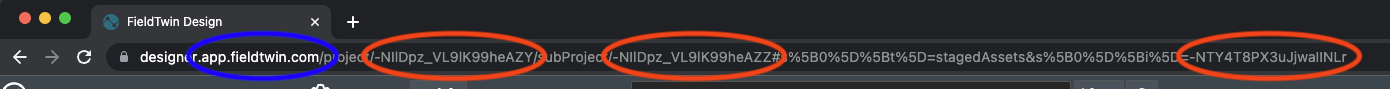
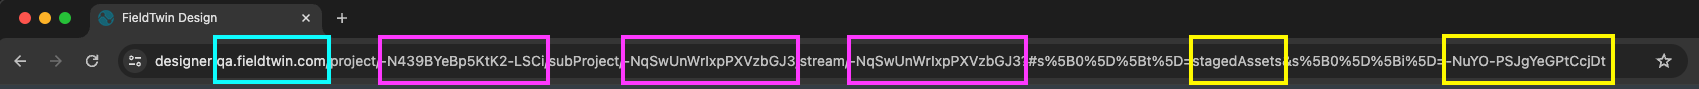
docs: remove old smart model info, add how to connect to smart model sockets

diff --git a/HOWTO.md b/HOWTO.md
@@ -21,8 +21,8 @@ project lives in. API tokens are convenient for testing but they are unrestricte
 so once you are familiar with the API you might (depending on your use case) choose to
 [use a JWT instead](#provide-a-jwt-instead-of-an-api-token).
 
-The IDs of the project and subproject (and objects below) can be found from the
-URL in your browser's address bar when the project is open in FieldTwin Design.
+The IDs of the project, subproject and stream (and objects below) can be found from
+the URL in your browser's address bar when the project is open in FieldTwin Design.
 They look like this: `-MeidQjcOmxpYWFIq5zp`.
 
 ![Hostname and IDs in the address bar](./docs/images/address-bar.png)
@@ -317,7 +317,7 @@ curl -H "token: ${TOKEN}" \
                          "value": []
                     }
                 ]
-            }' \
+             }' \
      https://${BACKEND_HOST}/API/v1.9/${PROJECT}/subProject/${SUBPROJECT}:${STREAM}/connection/${CONNECTION}
 ```
 
@@ -794,148 +794,18 @@ To use smart models, ask FutureOn to deploy the required smart assets and associ
 metadata definitions into your Asset Library.
 
 When a staged asset is created from a smart model in FieldTwin, its "docking slots" will
-be made available as metadata values with `"type": "asset"`:
+be made available as metadata values with `"type": "asset"`.
 
-### Legacy wind turbine smart models (2023 - 2024)
+### Wind turbine smart models (2024 onwards)
 
-Using the legacy Wind assets, the workflow for creation is:
-
-1. Create a wind turbine staged asset
-2. Set one of its available metadata values for _foundation x_ to the allowed foundation asset
-
-```
-export STAGEDASSET=<staged asset id>
-
-curl -H "token: ${TOKEN}" \
-     https://${BACKEND_HOST}/API/v1.9/${PROJECT}/subProject/${SUBPROJECT}:${STREAM}/stagedAsset/${STAGEDASSET}
--->
-{
-     "name": "5MW Wind Turbine #1",
-     "visible": true,
-     "virtual": false,
-     ...
-     "metaData": [{
-          "id": "-N5o5X-wuAK1D25k249p",
-          "metaDatumId": "-N5o5X-wuAK1D25k249e",
-          "metaDatumLinkId": "-N5o5X-wuAK1D25k249p",
-          "definitionId": "WindPOC:5MWMonoPile[asset]",
-          "name": "5MW MonoPile",
-          "type": "asset",
-          "tags": [],
-          "cost": 0,
-          "costPerLength": false,
-          "subValue": []
-     },
-     ...
-     ]
-}
-```
-
-Fetching the newly created wind turbine above, there is no `value` attribute in the `metaData` object.
-The docking slot for `5MW MonoPile` is empty. To add a monopile component to the parent staged asset,
-set the `value` to the ID of an allowable asset from the asset library (note: use the ID of an asset
-definition, not a staged asset):
-
-```
-curl -H "token: ${TOKEN}" \
-     -H "content-type: application/json" \
-     --request PATCH \
-     --data '{
-                "metaData": [{
-                    "metaDatumId": "-N5o5X-wuAK1D25k249e",
-                    "value": "-N4Rz5E2U88Qoq02TLF2"
-                }]
-            }' \
-     https://${BACKEND_HOST}/API/v1.9/${PROJECT}/subProject/${SUBPROJECT}:${STREAM}/stagedAsset/${STAGEDASSET}
-```
-
-To find the allowable asset IDs for a docking slot, first request the metadata definition
-using the metadata definition ID in `metaDatumId`:
-
-```
-curl -H "token: ${TOKEN}" \
-     https://${BACKEND_HOST}/API/v1.9/metadatadefinitions/-N5o5X-wuAK1D25k249e
--->
-{
-     "name": "5MW MonoPile",
-     "definitionId": "WindPOC:5MWMonoPile[asset]",
-     "vendorAttributes": {},
-     "shouldFilterChoices": false,
-     "options": {
-          "unit": {},
-          "filter": {
-               "assetSubCategories": ["5MW WT MP F"],
-               "assetCategories": ["Wind"],
-               "assetTypes": ["vessel"],
-               "assetSubTypes": ["WindTurbine"]
-          }
-     },
-     "cost": 0,
-     "costPerLength": false,
-     "order": 280000,
-     "public": false,
-     "tags": [],
-     "clonedFroms": [],
-     "hideInInfoPanel": false,
-     "global": false,
-     "id": "-N5o5X-wuAK1D25k249e",
-     "displayIfConditions": [],
-     "type": "asset",
-     "account": "-MY45O6R7qkBUXnN1uTb"
-}
-```
-
-Then use the filters given in `options.filter` to find asset definitions in the asset
-library that match the filters:
-
-```
-curl -H "token: ${TOKEN}" \
-     https://${BACKEND_HOST}/API/v1.9/assets
--->
-{
-     ...
-     "-N4Rz5E2U88Qoq02TLF2": {
-          "name": "5MW MonoPile",
-          "description": "",
-          "category": "Wind",                          // match on filter.assetCategories
-          "subCategory": "5MW WT MP F",                // match on filter.assetSubCategories
-          "type": "vessel",                            // match on filter.assetTypes
-          "subType": "WindTurbine",                    // match on filter.assetSubTypes
-          "imageUrl": "https://...",
-          "model3dUrl": "https://...",
-          "sockets2d": [],
-          "dockingMales": [],
-          "dockingFemale": { ... },
-          "params": {
-               "isGLTF": true,
-               "width": 8.557730674743652,
-               "height": 8.557730831003877,
-               "left": -4.278812885284424,
-               "top": -4.27881488333273
-          },
-          "shared": true,
-          "filename3D": "5MW_MonoPile.glb - Wed, 22 Jun 2022 11:24:30 GMT",
-          "filename2D": "5MW_MonoPile.png - Mon, 13 Jun 2022 12:09:54 GMT",
-          "filenameSockets": "5MW_MonoPile.sockets - Wed, 22 Jun 2022 11:28:23 GMT",
-          "hideInAssetLibrary": true
-     },
-     ...
-}
-```
-
-In this example the allowable values for the `5MW MonoPile` docking slot in the
-parent staged asset are:
-
-* `-N4Rz5E2U88Qoq02TLF2` to create a `5MW MonoPile` in the slot, or
-* `null` to set the docking slot as empty
-
-### Modern wind turbine smart models (2024 onwards)
-
-Using the modern Wind assets, the workflow for creation is:
+Configurable Wind smart models are included in FutureOn's standard asset library as of 2024.
+The workflow for creation of a turbine is:
 
 1. Create a _WindTool Construction Base_ staged asset
 2. Set its metadata value for _turbine_ to one of the allowed turbine assets
 3. Set its metadata value for _foundation_ to one of the allowed foundation assets
+
+Following step 1 the resulting data can be retrieved as follows:
 
 ```
 export STAGEDASSET=<staged asset id>
@@ -972,15 +842,16 @@ curl -H "token: ${TOKEN}" \
                "id": "-NtWP2c3UY_EwEOP-Ymq",
                "subValue": []
           }
-     ]
+     ],
+     "sockets2d": []
 }
 ```
 
-Fetching the newly created _Construction Base_ above, two metadata objects are returned:
+After fetching the newly created _Construction Base_, two metadata objects are returned:
 one for the wind turbine (WT) and the other for the turbine foundation. Neither has a `value`
 attribute in the `metaData` object - the docking slots are empty. To set them we need to set
 the `value` to the ID of an allowable asset from the asset library (note: use the ID of an asset
-definition, not a staged asset):
+definition, not a staged asset in the project):
 
 ```
 curl -H "token: ${TOKEN}" \
@@ -997,6 +868,8 @@ curl -H "token: ${TOKEN}" \
             }' \
      https://${BACKEND_HOST}/API/v1.9/${PROJECT}/subProject/${SUBPROJECT}:${STREAM}/stagedAsset/${STAGEDASSET}
 ```
+
+The above call will set both a turbine body and a foundation in the base's docking slots.
 
 To find the allowable asset IDs for a docking slot, first request the metadata definition
 using the metadata definition ID in `metaDatumId`:
@@ -1107,6 +980,113 @@ parent staged asset are:
 * `-N4RytdCUlxy8oJSdDIv` to create a `5MW Jacket` foundation, or
 * `-N4Rz5E2U88Qoq02TLF2` to create a `5MW MonoPile` foundation, or
 * `null` to set the docking slot as empty
+
+### Connecting a connection to a docking slot
+
+Most assets in FutureOn's asset library define one or more "sockets" that allow a connection
+to be connected to it. Assets that make up the swappable components of a smart model may also
+define sockets.
+
+In the example of how to [create a connection](#create-a-connection) you can see that
+a connection is attached **to** a regular staged asset by settings these attributes:
+
+```
+{
+  "to": "<id of a staged asset>",
+  "toSocket": "<name of a socket in stagedAsset.sockets2d>"
+}
+```
+
+However the item in a docking slot of a smart model is not a staged asset, it exists
+only as a metadata value. To connect a connection to an item in a docking slot we have
+to set the connection's `to` and `toSocket` differently.
+
+In the previous smart model example, after creating the _Construction Base_ and assigning
+a wind turbine body in its docking slot, the staged asset is the _Construction Base_ and
+its data is as follows:
+
+```
+export STAGEDASSET=<staged asset id>
+
+curl -H "token: ${TOKEN}" \
+     https://${BACKEND_HOST}/API/v1.9/${PROJECT}/subProject/${SUBPROJECT}:${STREAM}/stagedAsset/${STAGEDASSET}
+-->
+{
+     "id": "-NtWdCF0msKLrkbwhSgN",
+     "name": "WindTool Construction Base #1",
+     "visible": true,
+     "virtual": false,
+     ...
+     "metaData": [
+          {
+               "metaDatumId": "-NtWDOfryzi8OEwdm7I9",
+               "definitionId": "WindPOC:5MWWT[asset]",
+               "name": "5MW WT",
+               "type": "asset",
+               "tags": [],
+               "cost": 0,
+               "value": "-N4R5TPAOGih17IYVZm3",
+               "metaDatumLinkId": "-NtWDrplqhtzDTrqM7Z4",
+               "id": "-NtWDrplqhtzDTrqM7Z4",
+               "subType": "WindTurbine",
+               "category": "Wind",
+               "subCategory": "5MW WT",
+               "subValue": [
+                    ... nested metadata for the wind turbine ...
+               ]
+          },
+          {
+               ... metadata that sets the foundation ...
+          }
+     ],
+     "sockets2d": [
+          {
+               "x": 1.958685174628093,
+               "y": 1.1513813644766508,
+               "z": -3.017566015066542,
+               "name": "-NuZOI2drjETshKe6zQw:001",
+               "generated": true,
+               "assetId": "-N4R5TPAOGih17IYVZm3",
+               "radius": 0.25,
+               "metaData": []
+          },
+          {
+               "x": -1.974785545371426,
+               "y": 1.1513827399763774,
+               "z": -3.017567390566267,
+               "name": "-NuZOI2drjETshKe6zQw:002",
+               "generated": true,
+               "assetId": "-N4R5TPAOGih17IYVZm3",
+               "radius": 0.25,
+               "metaData": []
+          }
+     ]
+}
+```
+
+Since `5MW WT` was assigned in the `metaData` the base staged asset has gained 2 entries
+in its `sockets2d` attribute, both marked as `"generated": true`. These 2 sockets are defined
+on the turbine body asset (indicated by `"assetId": "-N4R5TPAOGih17IYVZm3"`) and they have
+now been inherited by the parent staged asset and given a generated name.
+
+To connect an existing mooring line to the turbine body in the docking slot, update the
+mooring line, setting `to` as the base staged asset's ID and `toSocket` as one of the
+generated socket names.
+
+```
+export CONNECTION=<mooring line id>
+
+curl -H "token: ${TOKEN}" \
+     -H "content-type: application/json" \
+     --request PATCH \
+     --data '{
+                 "to": "-NtWdCF0msKLrkbwhSgN",
+                 "toSocket": "-NuZOI2drjETshKe6zQw:001"
+             }' \
+     https://${BACKEND_HOST}/API/v1.9/${PROJECT}/subProject/${SUBPROJECT}:${STREAM}/connection/${CONNECTION}
+```
+
+To connect the connection in the opposite direction, set `from` and `fromSocket`.
 
 <br>
 <hr>
